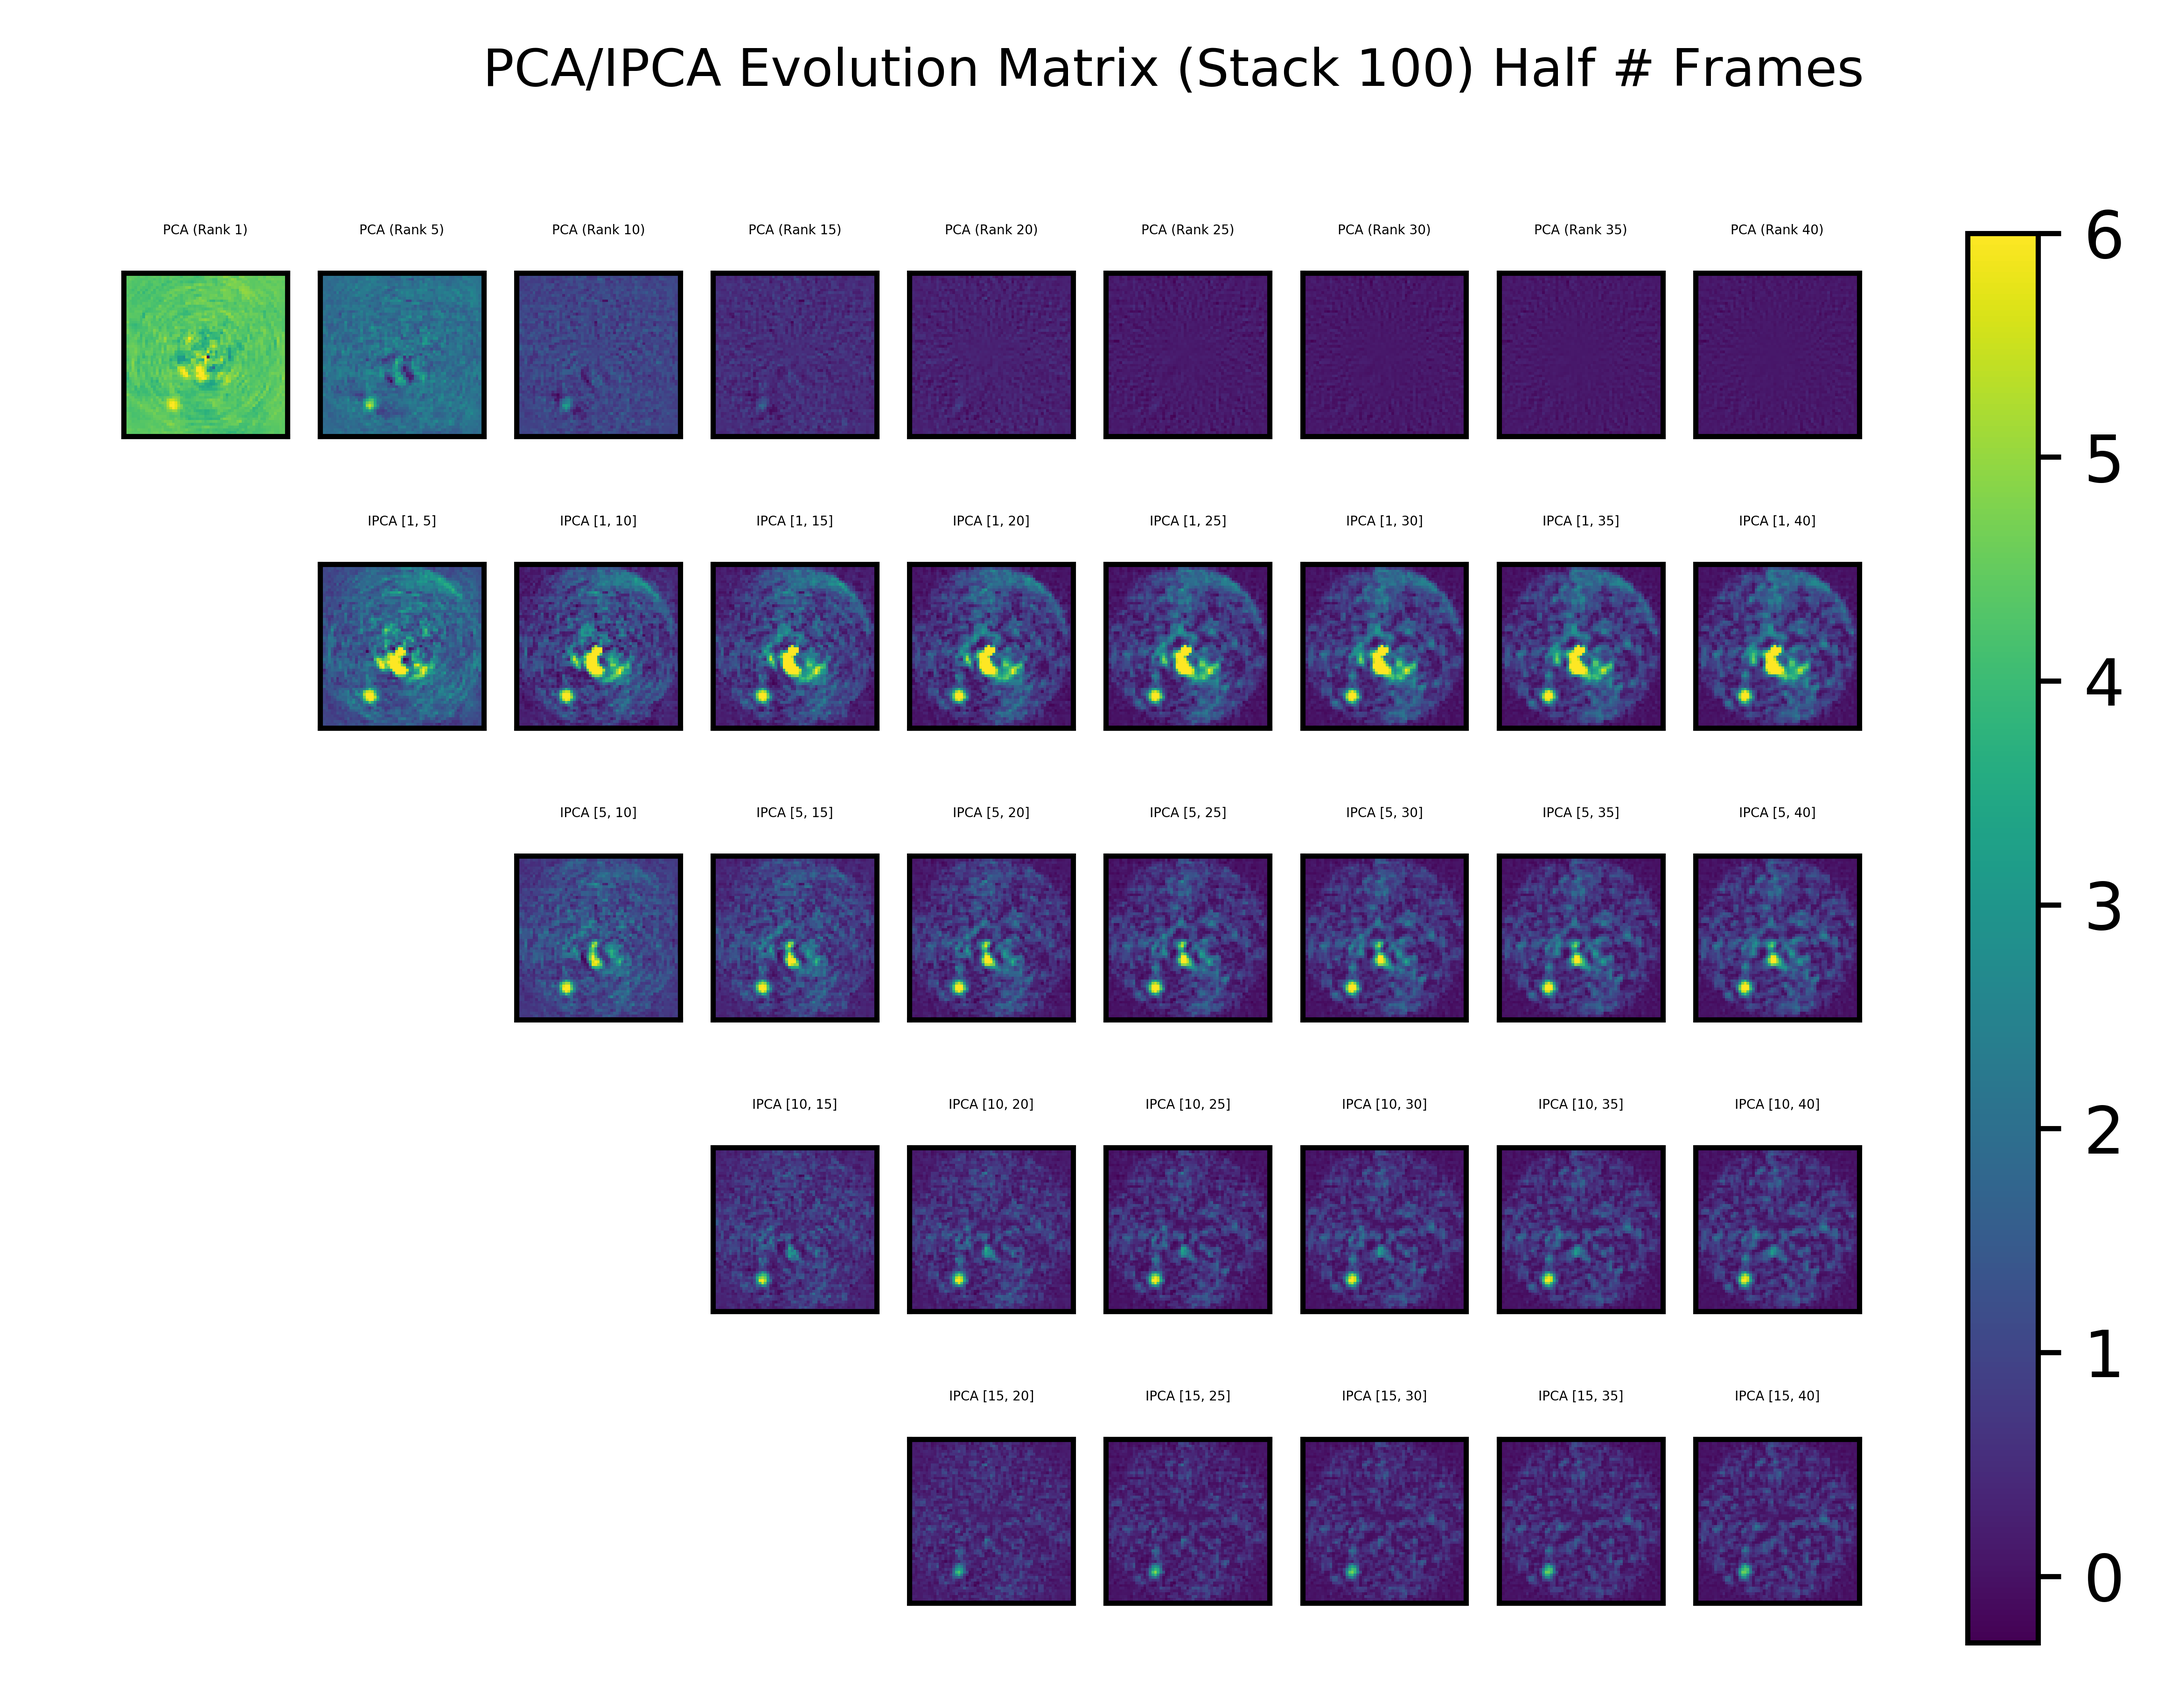
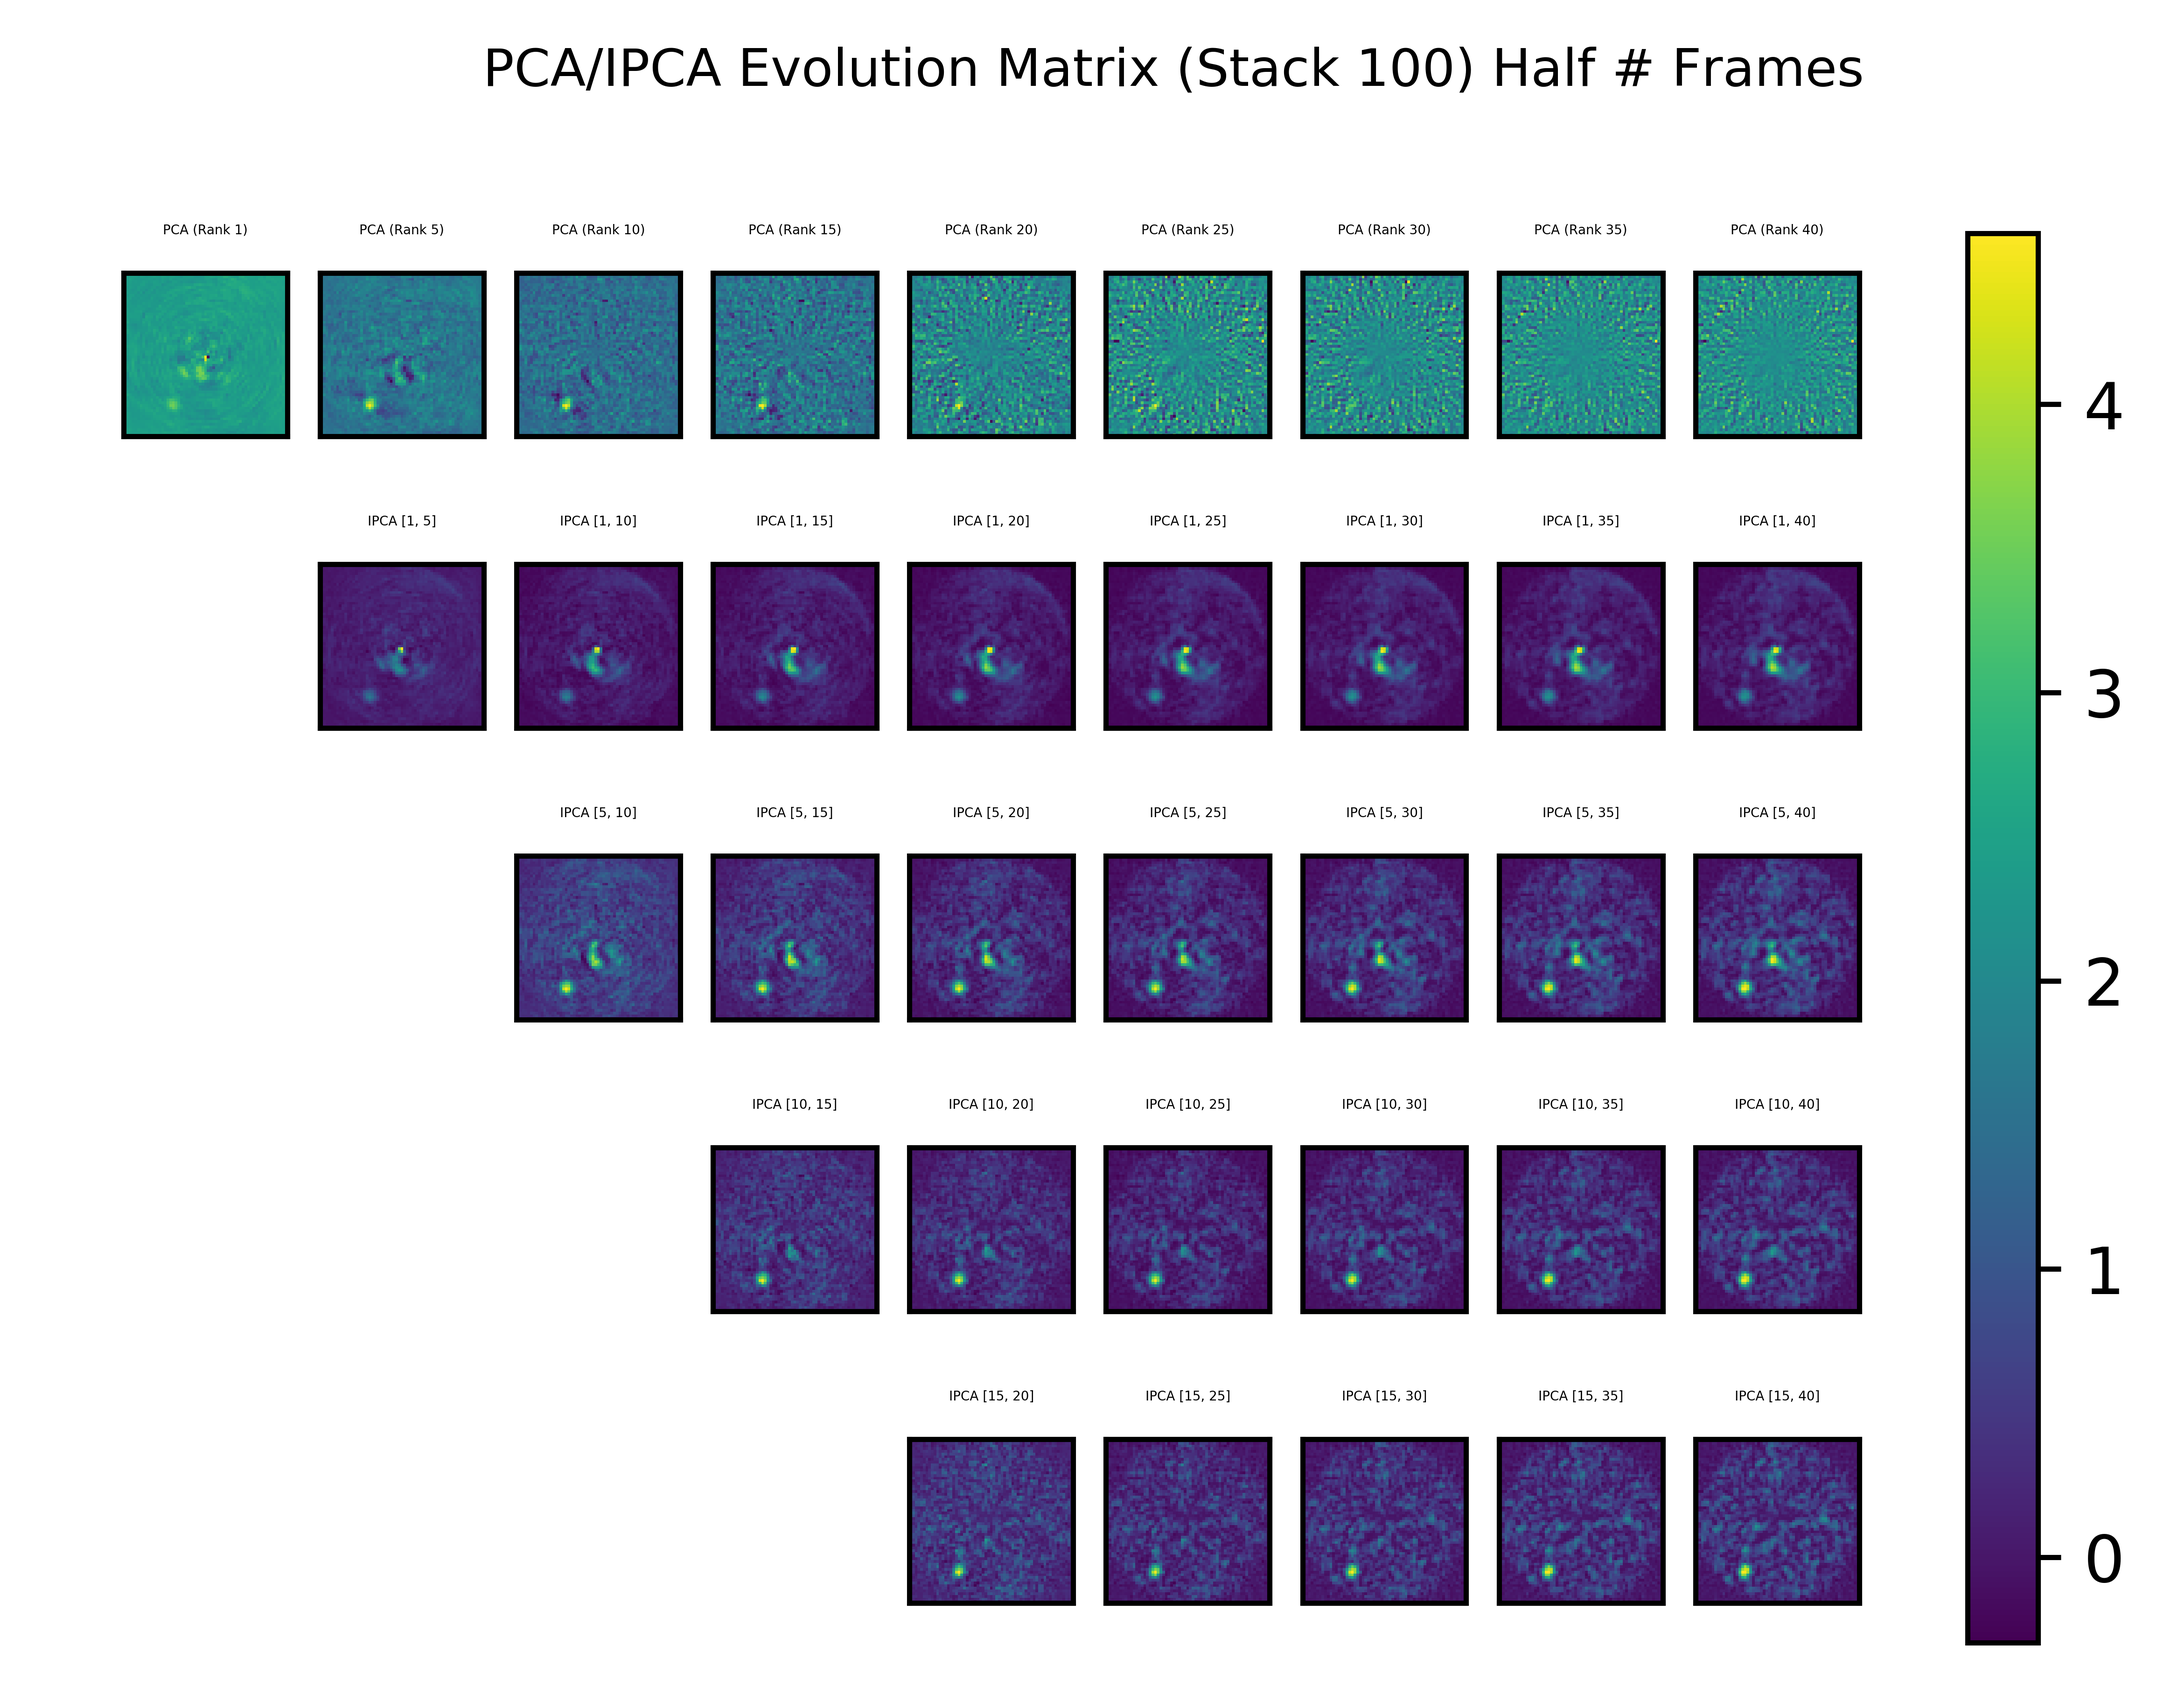
updated plots

diff --git a/planets/planets_plot.py b/planets/planets_plot.py
@@ -14,10 +14,10 @@ os.chdir("planets")
 
 
 '''decalre stack, pca rank and ipca ranks'''
-stack = 2
-rank_pca = 80 #maximum pca value
-rank_ipca_init_list = [1, 3, 6, 10, 15] #different inital values
-rank_ipca_end = 80 #max ipca value, must be larger than all values in init_list
+stack = 100
+rank_pca = 40 #maximum pca value
+rank_ipca_init_list = [1, 5, 10, 15] #different inital values
+rank_ipca_end = 40 #max ipca value, must be larger than all values in init_list
 interval = 5 #plot every 'interval' rank
 
 
@@ -32,18 +32,18 @@ start = time.time()
 
 '''process data'''
 fig, axes = plt.subplots(nrows=len(rank_ipca_init_list)+1, ncols=int(rank_pca/interval)+1)
-plt.suptitle("PCA/IPCA Evolution Matrix (Stack " + str(stack) + ")", fontsize = 8)
+plt.suptitle("PCA/IPCA Evolution Matrix (Stack " + str(stack) + ") Half # Frames", fontsize = 8)
 #plt.xlabel("R. A. Offset [arcsec]")
 #plt.subplots_adjust(wspace=0.2)
 subplot_counter = 0
 size = 1
 vmin = None
-vmax = 6
+vmax = None
 fontsize = 2
 
 for i in range(1, rank_pca+1):
     if (i == 1) or ((i % interval) == 0):
-        im = axes.flat[subplot_counter].imshow(np.loadtxt(output_path + "arrays_matrix/planets_pca_" + str(i) + ".txt"), origin='lower', vmin=vmin, vmax=vmax, extent=[size, -size, -size, size])
+        im = axes.flat[subplot_counter].imshow(np.loadtxt(output_path + "arrays_matrix/everysecond_planets_pca_" + str(i) + ".txt"), origin='lower', vmin=vmin, vmax=vmax, extent=[size, -size, -size, size])
         axes.flat[subplot_counter].set_title("PCA (Rank " + str(i) + ")", fontsize=fontsize)    
         axes.flat[subplot_counter].tick_params(labelsize=fontsize, axis='both', left=False, bottom=False, colors=(1, 1, 1, 0))
         subplot_counter += 1
@@ -54,7 +54,7 @@ for init in rank_ipca_init_list:
         subplot_counter += 1
     for end in range(init+1, rank_ipca_end+1):
         if (end == 1) or ((end % interval) == 0):
-            im = axes.flat[subplot_counter].imshow(np.loadtxt(output_path + "arrays_matrix/planets_ipca_" + str(init) + "_" + str(end) + ".txt"), origin='lower', vmin=vmin, vmax=vmax, extent=[size, -size, -size, size])
+            im = axes.flat[subplot_counter].imshow(np.loadtxt(output_path + "arrays_matrix/everysecond__planets_ipca_" + str(init) + "_" + str(end) + ".txt"), origin='lower', vmin=vmin, vmax=vmax, extent=[size, -size, -size, size])
             axes.flat[subplot_counter].set_title("IPCA [" + str(init) + ", " + str(end) + "]", fontsize=fontsize)
             #if init == 6 and end == 30:
             #    axes.flat[subplot_counter].set_title("IPCA [" + str(init) + ", " + str(end) + "]", fontsize=fontsize, color="green")    
@@ -64,7 +64,7 @@ for init in rank_ipca_init_list:
 #fig.tight_layout()
 #plt.subplot_tool()
 fig.colorbar(im, ax=axes.ravel().tolist())
-plt.savefig(output_path +"plots/matrix.png", bbox_inches='tight', orientation="landscape", dpi=1000)
+plt.savefig(output_path +"plots/everysecond_matrix.png", bbox_inches='tight', orientation="landscape", dpi=1000)
 
 
 
